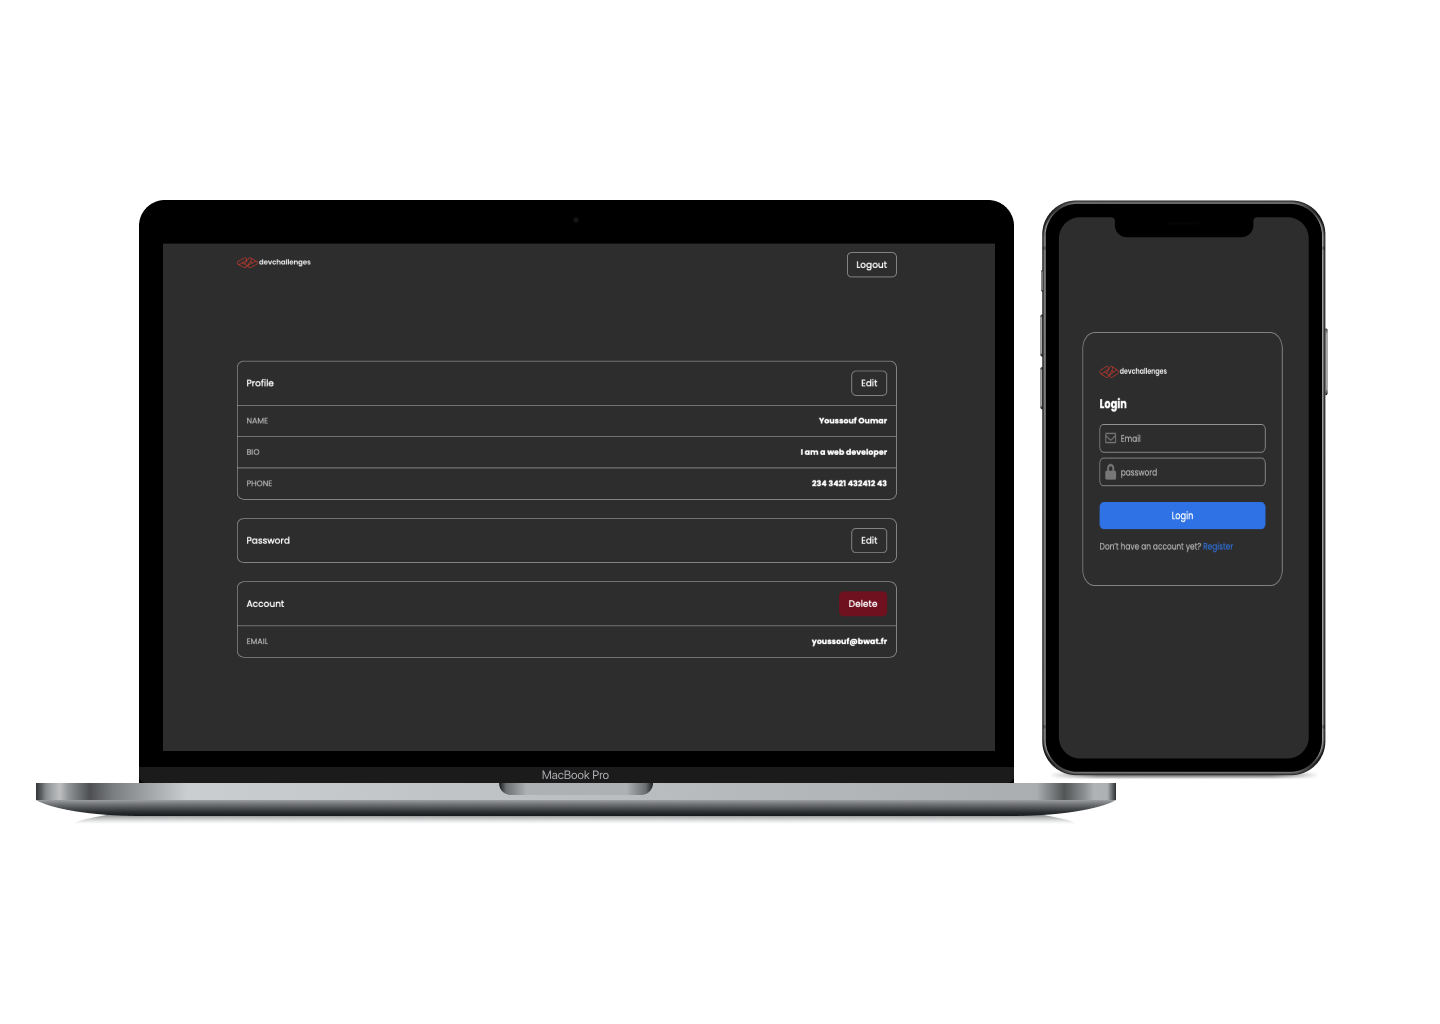
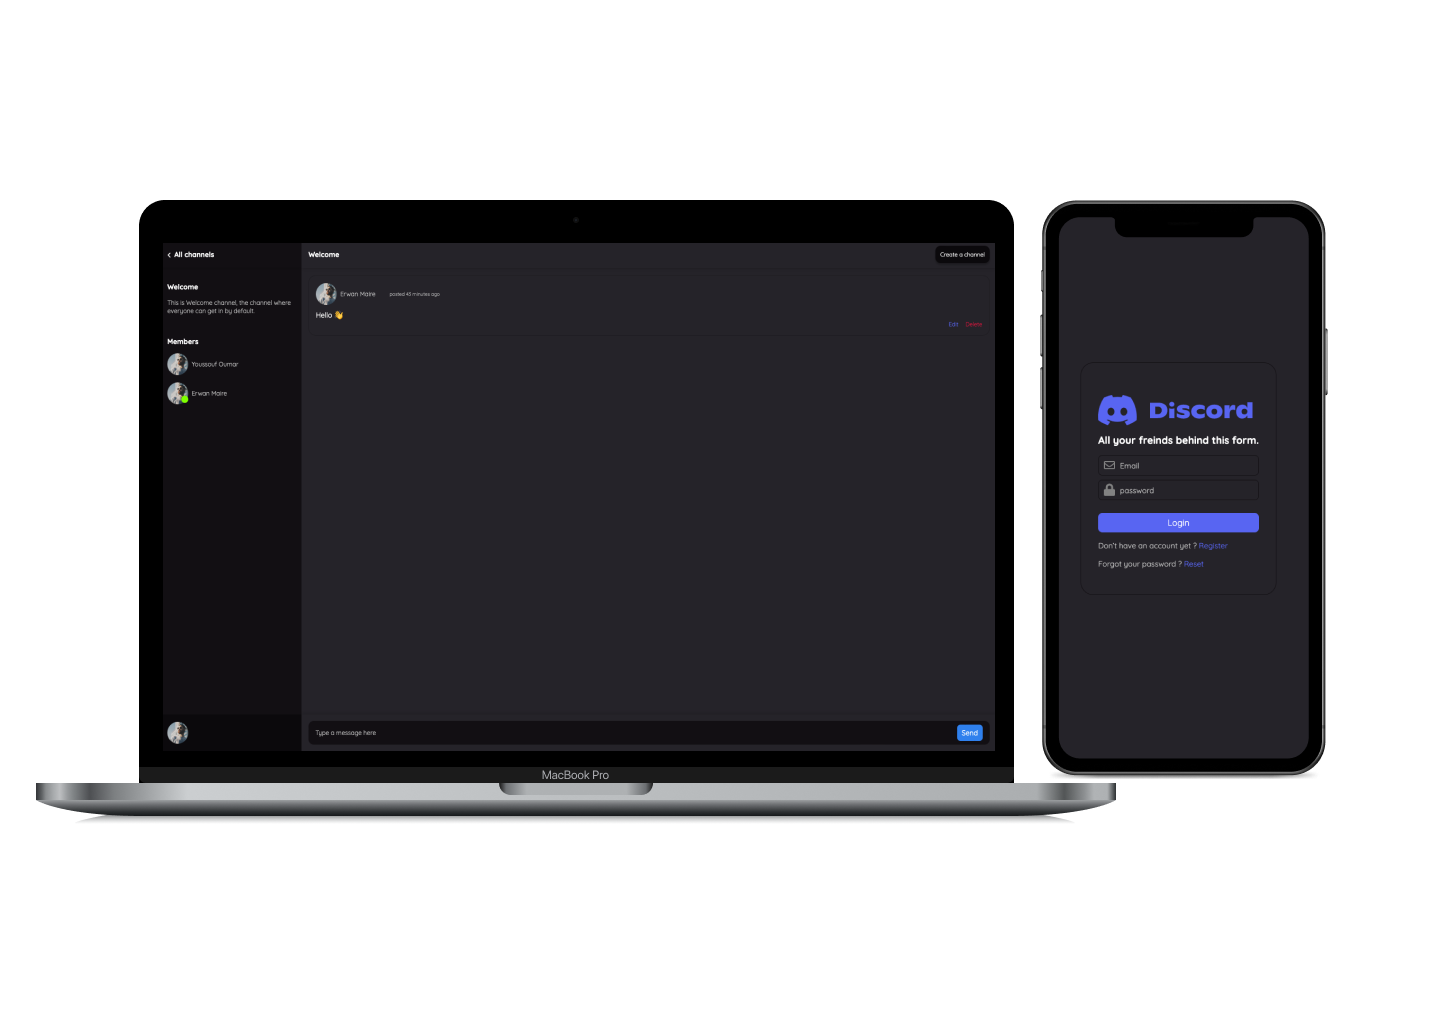
updates readme file

diff --git a/readme.md b/readme.md
@@ -1,6 +1,6 @@
 # Discord
 
-A `Discord` clone, coded with `React`, `Sass`, `Express`, `NodeJs`, `Mongoose`, and `MongoDB`.
+A `Discord` clone, carried out with `React`, `Express`, `NodeJs`, `Socket.io`, `Mongoose`, `MongoDB`, and styled with `Sass`.
 
 # Features
 
@@ -16,8 +16,10 @@ A `Discord` clone, coded with `React`, `Sass`, `Express`, `NodeJs`, `Mongoose`, 
 - I can create a new channel with a name and a description
 - I can select a channel of my choice
 - When I can select a channel, I am added as a member of the channel
-- I can see a member of the channel
-- I can send a message
+- I can see members of the channel
+- I can see online members of the channel
+- I can send, edit, delete and receive messages instantly
+- I see when someone is writing
 - I can see other people's messages
 - I can search for a group
 
